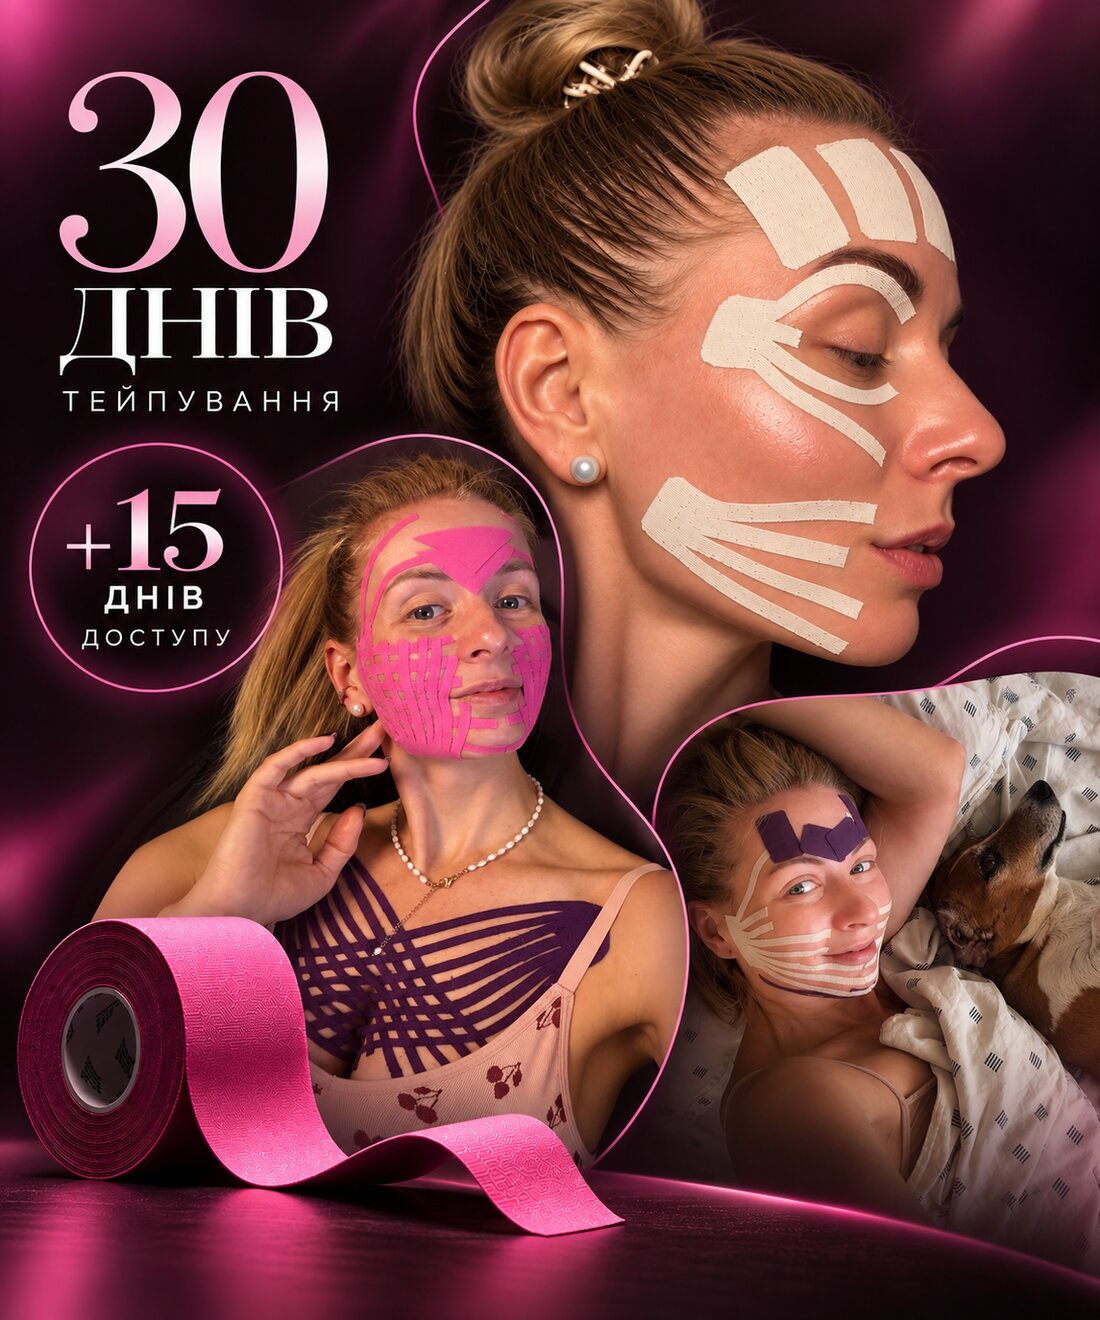
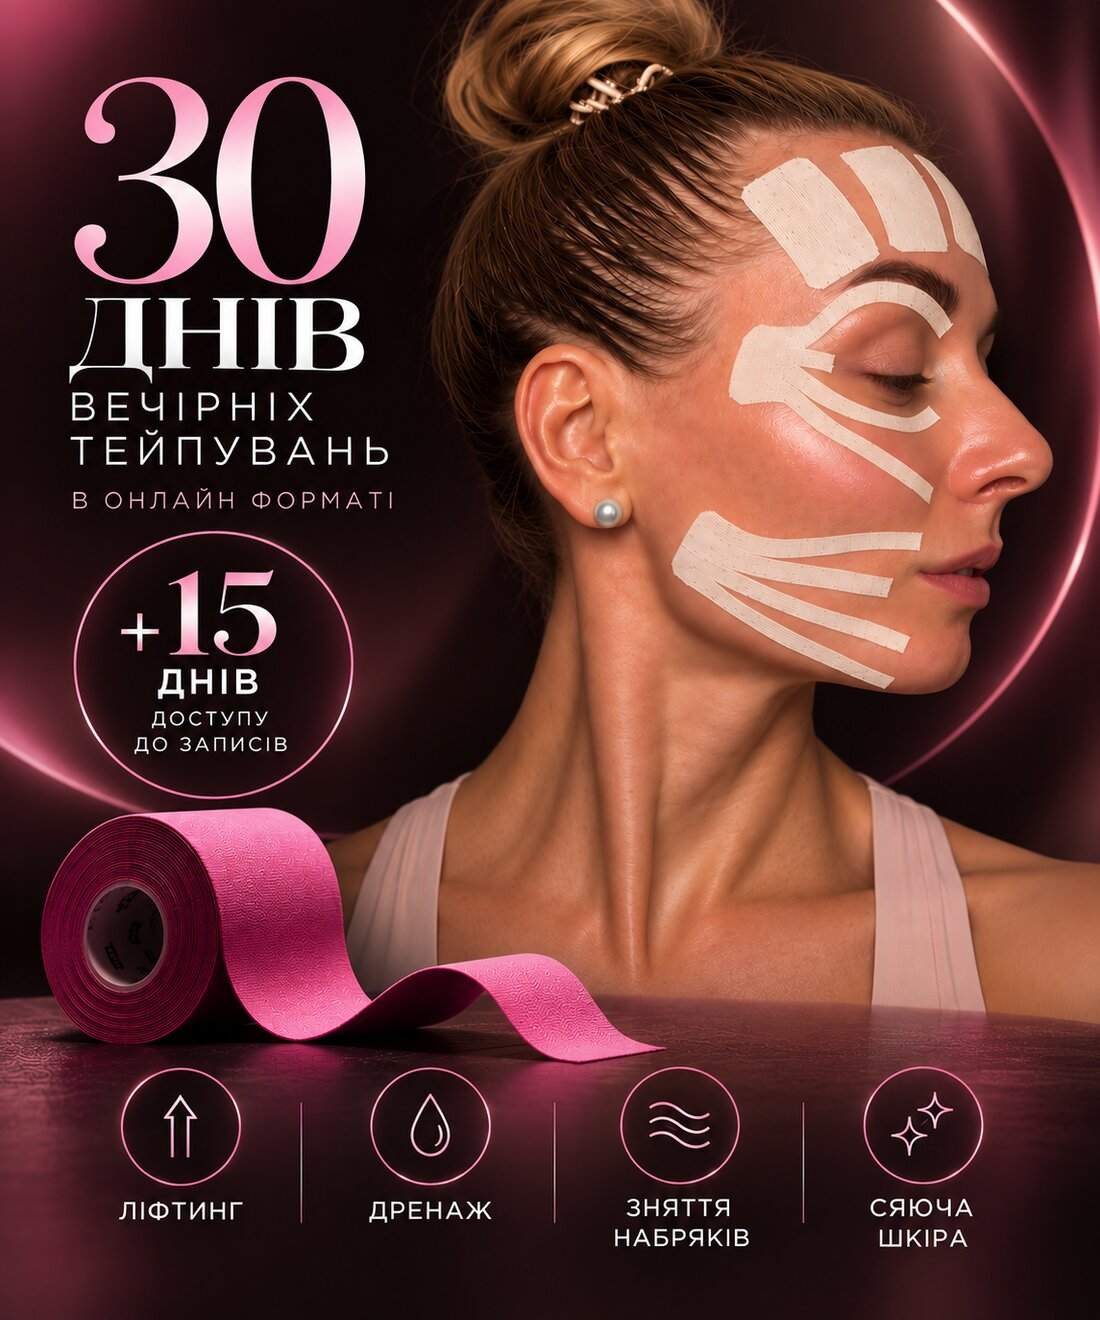
Swap the hero collage for the new evening-club poster.
The updated creative better matches this intake: 30 evening sessions online plus extra archive access.

diff --git a/index.html b/index.html
@@ -83,7 +83,7 @@
         <figure class="hero-visual">
           <img
             src="assets/intake/hero-collage.jpg"
-            alt="30 днів тейпування та +15 днів доступу"
+            alt="30 днів вечірніх тейпувань в онлайн-форматі та +15 днів доступу до записів"
           />
         </figure>
       </section>
